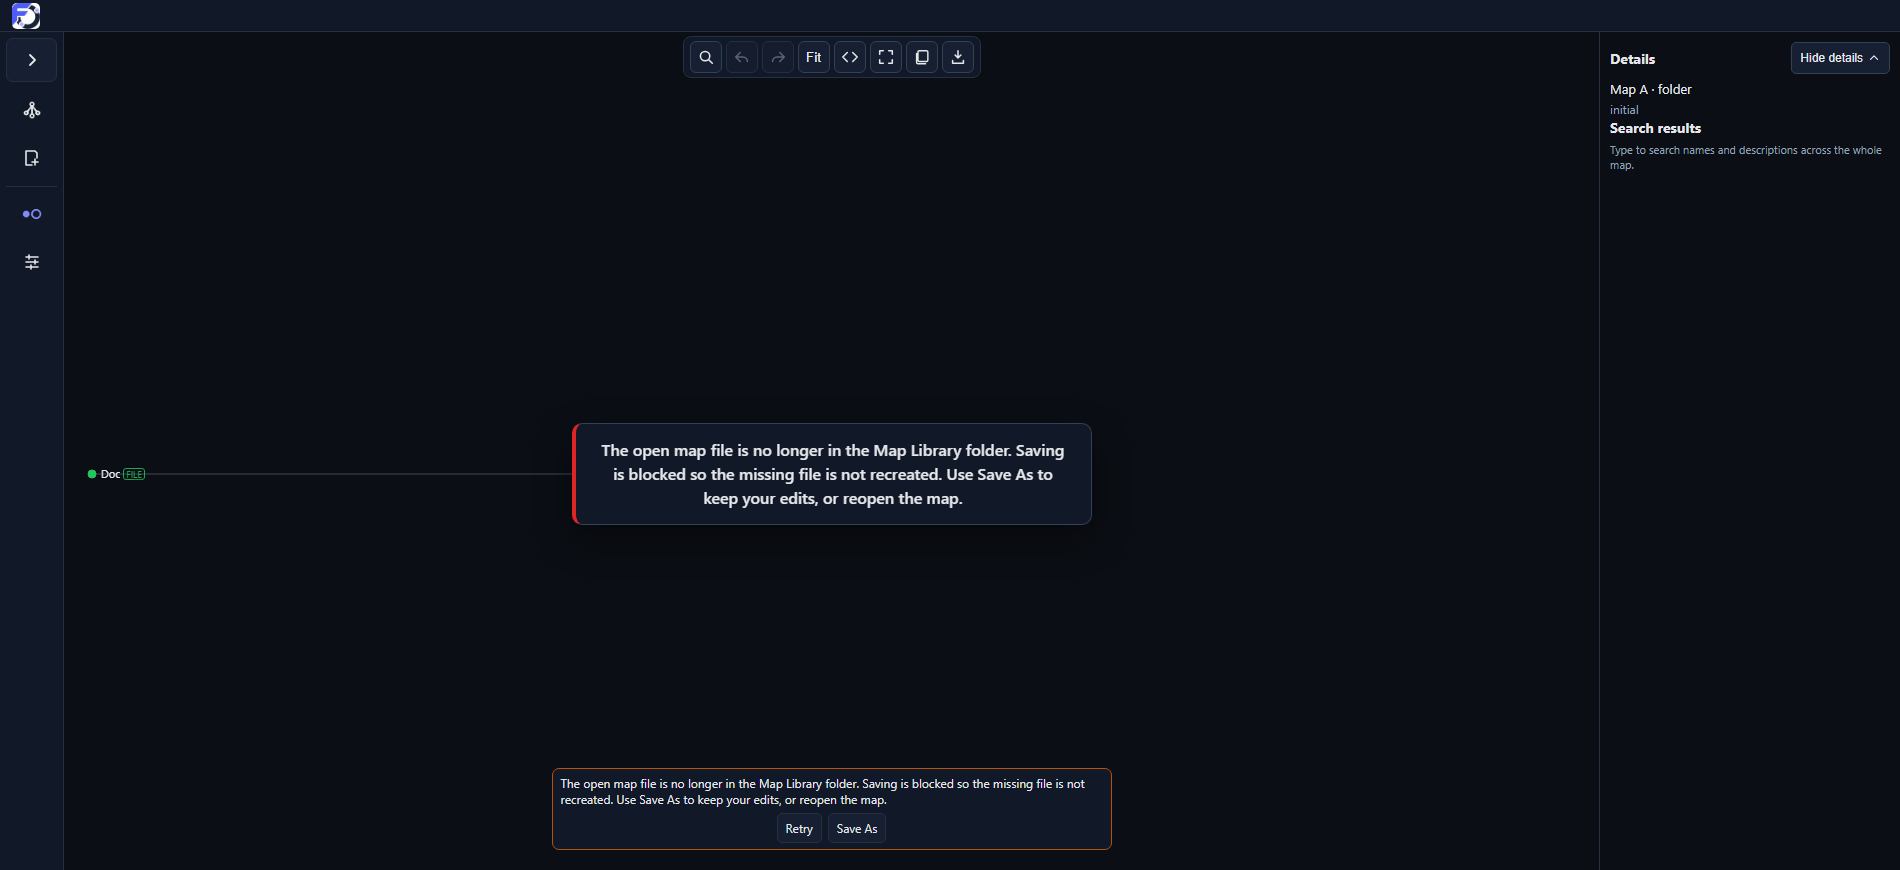
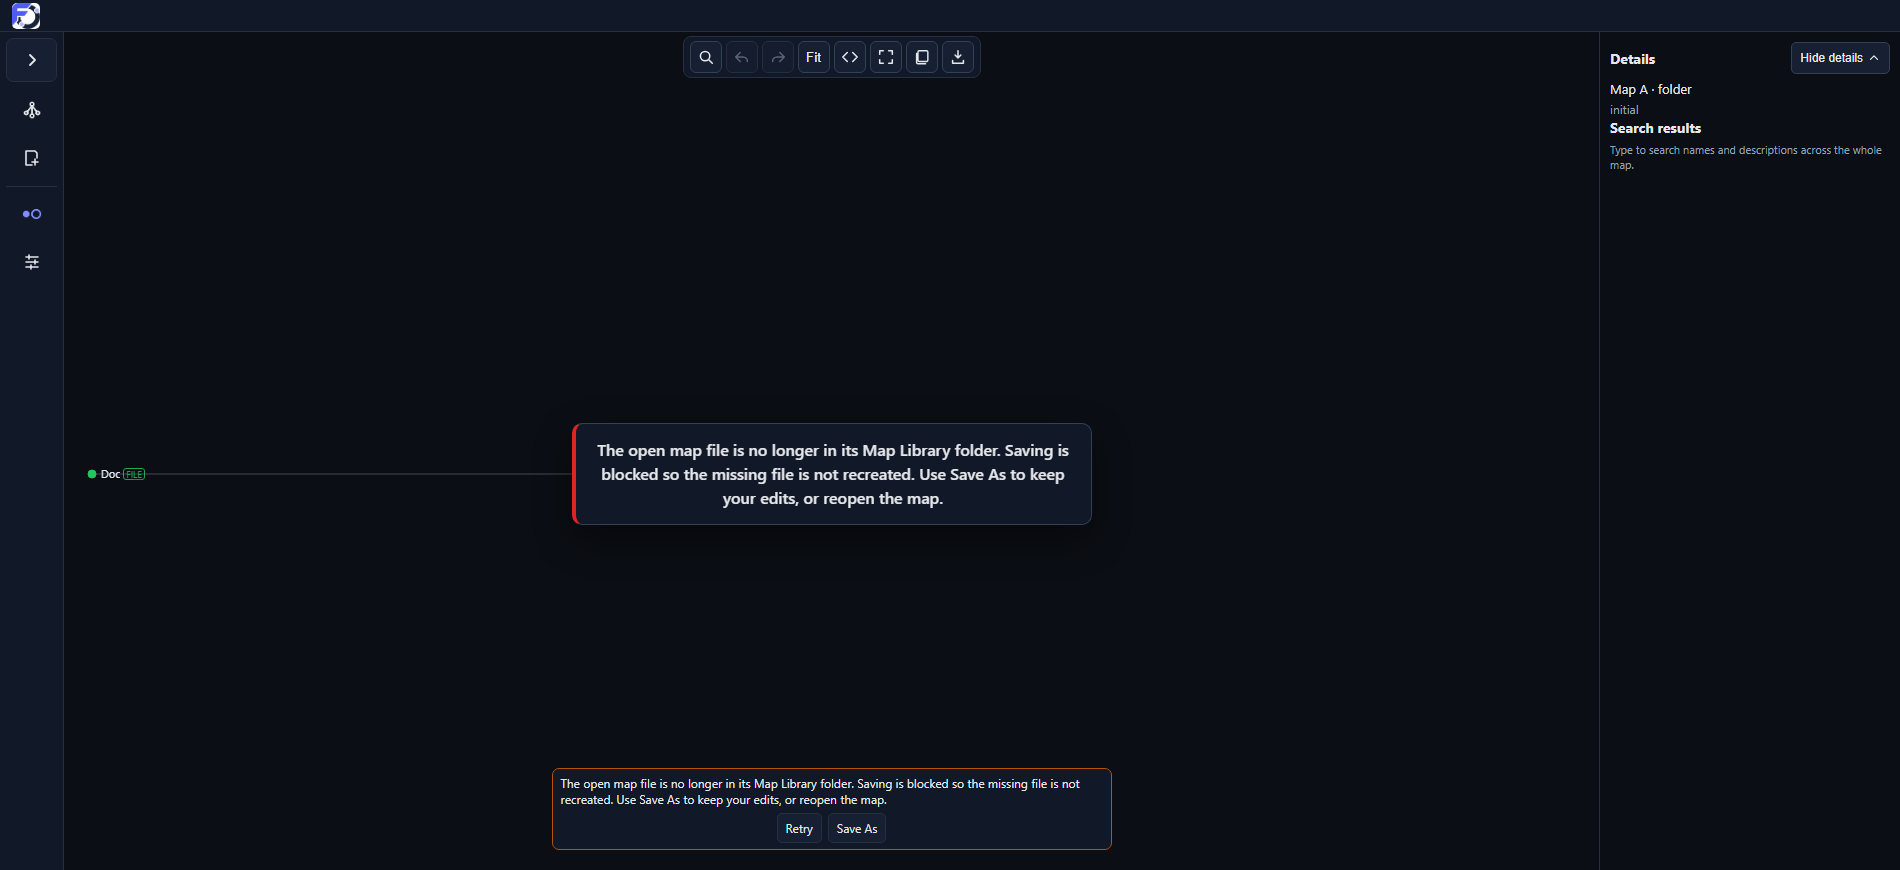
Resolve Library save targets from the bound parent
The save-destination check compared the open document against the currently displayed Library listing, so it could not verify a file before Refresh or while another Library was selected, and a parent binding could survive into an unrelated document.

- Immediately before overwrite, resolve the expected filename from the document's verified parent handle with getFileHandle (no creation) and compare the returned handle with the bound file handle by identity; keep the existing content-baseline preflight.

- Report missing, same-name replacement, permission failure and an inconclusive lookup distinctly; keep edits and offer Save As, with zero writes to stale or replaced targets.

- Bind a parent only when membership is verified (Library listing entry or verified Rename Map parent); clear it on reset, drop it on Save As, guard adoption on the same handle, and restore it when an unverified editor Save As restores the source target.

- Extend the rendered Library regression for rename/delete/replacement followed by Save without Refresh, Save As to a distinct destination, and a map opened from Library A while Library B is selected; add the Library selection hook.

Verified over disposable OPFS at 8708b25. Native Windows identity-preserving rename/move remains a manual check.

Changed region(s): [[0.3105, 0.4966, 0.5589, 0.5897], [0.4037, 0.9, 0.5589, 0.931]]

diff --git a/src/app/pc/document-ownership.js b/src/app/pc/document-ownership.js
@@ -1,7 +1,7 @@
-export const activeDocument = { active: false, name: null, handle: null, mode: 'none', savedRevision: null, origin: null, documentIdentity: null, baseline: null };
+export const activeDocument = { active: false, name: null, handle: null, mode: 'none', savedRevision: null, origin: null, documentIdentity: null, parentHandle: null, baseline: null };
 export const activeMap = { mapId: null, generation: null, savedRevision: null };
-export function resetActiveDocument() { Object.assign(activeDocument, { active: false, name: null, handle: null, mode: 'none', savedRevision: null, origin: null, documentIdentity: null, baseline: null }); }
-export function adoptActiveDocument(values) { Object.assign(activeDocument, { active: false, name: null, handle: null, mode: 'none', savedRevision: null, origin: null, documentIdentity: null, baseline: null }, values); return activeDocument; }
+export function resetActiveDocument() { Object.assign(activeDocument, { active: false, name: null, handle: null, mode: 'none', savedRevision: null, origin: null, documentIdentity: null, parentHandle: null, baseline: null }); }
+export function adoptActiveDocument(values) { Object.assign(activeDocument, { active: false, name: null, handle: null, mode: 'none', savedRevision: null, origin: null, documentIdentity: null, parentHandle: null, baseline: null }, values); return activeDocument; }
 export function clearActiveMap() { Object.assign(activeMap, { mapId: null, generation: null, savedRevision: null }); }
 export function setActiveMap(values) { Object.assign(activeMap, { mapId: null, generation: null, savedRevision: null }, values); return activeMap; }
 export function documentIsDirty(revision) {

diff --git a/docs/engine/FILEORBIT-PC-LARGE-MAP-INTEGRATION.md b/docs/engine/FILEORBIT-PC-LARGE-MAP-INTEGRATION.md
@@ -902,4 +902,4 @@ Edit Description now opens with the stored description prefilled, and an editor 
 
 The applied-edit recovery **Save As** uses the same persistence standard. It binds the write to the applied operation and its destination, requires a confirmed write baseline and a decoded destination whose name/description/link match the applied tree, rechecks ownership after the asynchronous read, and only then closes the editor. On picker cancellation the editor and draft are preserved. On write failure, an unverified result, a destination mismatch, or a download handoff the applied edit and recovery actions are retained, the source document binding is restored, and the feedback states whether a file may already exist at the chosen destination and was left for inspection. After a confirmed Save As the active document is the new file, so the next ordinary Save writes there. Finalization is deferred for this scoped action: `saveDocument` keeps the recovery reservation and suppresses the success notice, then the editor retires that checkpoint and publishes a single “Saved” notification only after the baseline, decoded edit, destination binding, and ownership checks pass. On unverified, mismatched, cancelled, or handoff outcomes the reservation is abandoned safely (the recovery checkpoint remains available for the applied edit), and a continuation that lost ownership cannot retire the replacement document's checkpoint or publish a success notice for it. Cleanup stays bound to the original reservation, and ownership is rechecked immediately after the awaited retire/abandon and before any success notice, editor close, or failure feedback: a document switch during cleanup leaves the replacement editor, its feedback, and its recovery checkpoint untouched.
 
-External file changes are handled at the Library boundary. An explicit Refresh re-enumerates the selected Library and reflects added, renamed, moved-away, and deleted files while preserving the open map, edits, view, and history; the current-file highlight is recomputed from `isSameEntry` handle identity, never from a matching filename. A current file absent from a complete listing is reported distinctly from denied access or an incomplete/truncated listing, a failed refresh keeps the last valid list with an actionable message, and late refreshes cannot replace another Library's list. On save, when the document is bound to the verified Library parent, the overwrite preflight also resolves the parent entry by handle identity and checks the expected name: a missing entry blocks manual save, autosave, and Retry Save so the stale filename is not recreated; a different file at the same name is preserved through the existing conflict/recovery flow; an identity-preserved external rename blocks the old-name write, appears under its new Library name, and is rebound by reopening the renamed file. Standalone documents with no verified parent keep the existing handle-based save path, and Save As remains the recovery for blocked destinations.
+External file changes are handled at the Library boundary. An explicit Refresh re-enumerates the selected Library and reflects added, renamed, moved-away, and deleted files while preserving the open map, edits, view, and history; the current-file highlight is recomputed from `isSameEntry` handle identity, never from a matching filename. A current file absent from a complete listing is reported distinctly from denied access or an incomplete/truncated listing, a failed refresh keeps the last valid list with an actionable message, and late refreshes cannot replace another Library's list. On save, when the document is bound to the verified Library parent, the overwrite preflight also resolves the parent entry by handle identity and checks the expected name: a missing entry blocks manual save, autosave, and Retry Save so the stale filename is not recreated; a different file at the same name is preserved through the existing conflict/recovery flow; an identity-preserved external rename blocks the old-name write, appears under its new Library name, and is rebound by reopening the renamed file. Standalone documents with no verified parent keep the existing handle-based save path, and Save As remains the recovery for blocked destinations. The parent binding is established only when membership is verified (a Library listing entry or a verified Rename Map parent), cleared on document reset, carried explicitly through adoption, dropped by Save As, and restored together with the source target when an unverified Save As restores it. Immediately before overwriting, the expected filename is resolved directly from that bound parent with `getFileHandle` (no creation) and compared by handle identity with the bound file, so the check works before Refresh and while another Library is selected; missing, same-name replacement, permission failure, and an inconclusive lookup are reported distinctly.

diff --git a/docs/engine/RENAME-MAP-R4-KOREAN-MANUAL-CHECKS.md b/docs/engine/RENAME-MAP-R4-KOREAN-MANUAL-CHECKS.md
@@ -47,6 +47,8 @@
 4. 같은 이름으로 **다른** `.orbit` 파일을 복사 → Save: 다른 파일을 덮어쓰지 않고 충돌/복구 안내가 나오는가? 파일 바이트가 그대로인가?
 5. Save As로 새 파일에 저장 → 다시 열어 설명과 첨부 바이트가 정확한가? 이후 일반 Save가 새 파일에 쓰는가?
 6. 목록 실패(권한 거부 또는 열거 오류): 마지막 목록이 유지되고 Reconnect/Refresh 안내가 나오는가? 다른 Library로 전환한 뒤 늦게 끝난 새로고침이 B의 목록을 덮어쓰지 않는가?
+7. **Refresh 없이** 외부에서 이름 변경/삭제/같은 이름 교체 후 바로 Save: 각각 차단(미싱/치환)되고 대상에 0회 쓰기인가? 같은 이름의 다른 파일이 보존되는가? Save As로 별도 대상에 정확히 저장되는가?
+8. Library A의 map을 연 뒤 B를 선택: Save가 현재 목록이 아니라 A에 바인딩된 부모로 검증되는가? A에서 파일을 지우면 (Refresh 없이) 미싱으로 차단되는가?
 
 ## 증거 구분
 - OPFS/disposable Edge 검증은 R4 자동화 증거입니다.

diff --git a/docs/engine/RENAME-MAP-R4-TEST-HOOKS.md b/docs/engine/RENAME-MAP-R4-TEST-HOOKS.md
@@ -22,3 +22,4 @@ The browser tests use disposable OPFS directories and generated `.orbit` files. 
 - `failNextOrbitListing(reason)`: fails the next Map Library enumeration with the given reason (`enumerate-failed`, `permission-denied`) to verify that the last valid list is retained with actionable feedback.
 - `deferOrbitBindingCheck()` / `releaseOrbitBindingCheck()` / `orbitBindingCheckState()`: pause the save-destination binding verification after the identity/name resolution snapshot; a document or Library switch can be injected before the write so a stale save must abort without writing.
 - `requestAutomaticSaveForTest()`: requests the real automatic-save path (non-interactive conflict handling) after a test edit; `automaticSaveForTest()` uses the same non-interactive options for direct invocation.
+- `selectLibraryForTest(id)`: selects a Library from the collection through the normal selection path, used to verify that a map opened from Library A stays bound to A while Library B is selected.
